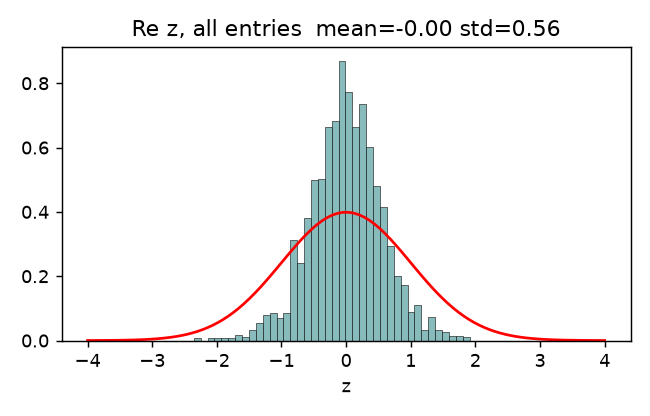
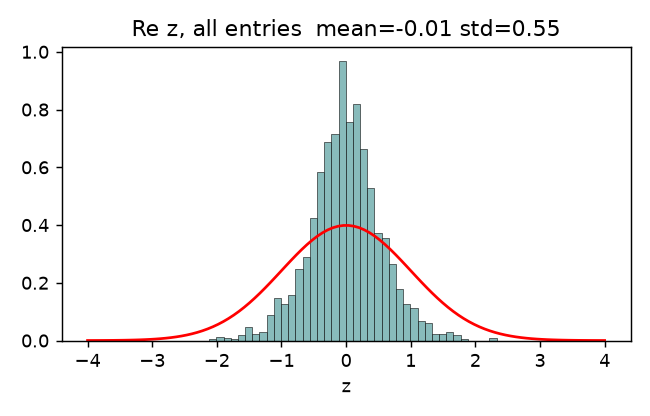
FeAs claim B at N=512/arm, plus three fixes the wider run exposed
Rerun the FeAs 4x4 claim-B measurement with 16x the replicas (32 -> 512/arm,
1024 runs, ~50 min on 128 cores). The headline tightens and holds:
Var_off/Var_on = 2.51 [2.40, 2.64] against 2.45 [2.12, 2.90] at N=32 -- CI 3.3x
narrower, lower bound 2.12 -> 2.40, so it now clears the declared 2x ceiling
with room. Independence and bias checks pass at the tighter N=512 band, and all
nine band-diagonal orbits match the predicted n/(1+(n-1)rho) to two decimals.

Cap the BLAS thread pool in the replica drivers. Each replica already runs 4
solver threads and CONCURRENCY is sized to cores/4 on that basis, but OpenBLAS
spawned a pool of nproc threads *per replica*: at concurrency 32 on a 128-core
box that was 4000+ threads and not one replica finished in 8 minutes, against
85s standalone. Invisible at the old box's concurrency of ~3; fatal at scale.

Tear down the xargs pool on interrupt. Killing the driver alone left xargs
orphaned to init, still working through the rest of the seed list.

Hoist the orbit slice out of the bootstrap resample loop. Fo[b][:,:,m]
materialised all E entries of every resample and discarded most; the same
index set still drives both arms, which is what keeps the seed-paired design's
ON/OFF correlation inside the interval.

Point savefig at ../figures. The notebooks are executed from notebooks/, so the
repo-root figures dir was never being written.

Record the run as plan section 12 Stage 2b, including one open item: the two
[…]

diff --git a/notebooks/build_feas_notebook.py b/notebooks/build_feas_notebook.py
@@ -7,7 +7,7 @@ def code(s): C.append(new_code_cell(s))
 
 md(r"""# FeAs variance-reduction demo — claim B: *derived symmetry that was never declared*
 
-**CT-AUX, FeAs (two-band), Nc = 16 (4×4), one DCA iteration.** N = 32 paired independent runs/arm,
+**CT-AUX, FeAs (two-band), Nc = 16 (4×4), one DCA iteration.** N = 512 paired independent runs/arm,
 shared explicit-integer seed list (prime stride 1000003).
 
 FeAs is the project's actual story. Its model **declares** `FeAsPointGroup` = {identity, C4} = **2 ops**.
@@ -92,11 +92,16 @@ code(r"""def pooled_ratio(m):
     return (Voff[:,m].mean()/von) if von>0 else np.nan
 def boot_ci(m,nb=1000,seed=0):
     rng=np.random.default_rng(seed); Fo,_=L.flatten_entries(Goff); Fn,_=L.flatten_entries(Gon)
+    # Slice the orbit BEFORE resampling. Fo[b][:,:,m] would materialise all E entries of every
+    # resample and then throw most away; at N=512 that alone costs ~20 min per notebook. Same
+    # bootstrap index set b is applied to both arms -- the arms are seed-paired, so this is a
+    # PAIRED bootstrap and the ON/OFF correlation must stay in the interval.
+    Fo_m=Fo[:,:,m]; Fn_m=Fn[:,:,m]
     v=[]
     for _ in range(nb):
         b=rng.integers(0,Nrep,Nrep)
-        dn=Fn[b][:,:,m].var(0,ddof=1).real.mean()
-        if dn>0: v.append(Fo[b][:,:,m].var(0,ddof=1).real.mean()/dn)
+        dn=Fn_m[b].var(0,ddof=1).real.mean()
+        if dn>0: v.append(Fo_m[b].var(0,ddof=1).real.mean()/dn)
     return (np.percentile(v,2.5),np.percentile(v,97.5)) if v else (np.nan,np.nan)
 
 # Null-orbit guard. Some derived orbits (all interband here) are symmetry-forced to ~0: the derived
@@ -134,7 +139,7 @@ ax.scatter([],[],marker='o',color='#2c6fbb',label='derived orbit size ≤ 2')
 ax.set_xlabel('derived orbit size $n$'); ax.set_ylabel(r'$\mathrm{Var}_{\rm off}/\mathrm{Var}_{\rm on}$')
 ax.set_title('FeAs 4×4: derived group reduces variance beyond the declared ceiling')
 ax.set_xticks([1,2,3,4,6,8]); ax.legend(fontsize=8,loc='upper left')
-fig.tight_layout(); fig.savefig('figures/feas4_money_plot.png',dpi=130); plt.show()
+fig.tight_layout(); fig.savefig('../figures/feas4_money_plot.png',dpi=130); plt.show()
 for r in sorted(rows,key=lambda x:x['n']):
     tag='interband' if r['interband'] else 'band-diag'
     print(f"  n={r['n']:>2} ({tag}) ratio={r['ratio']:.2f} [{r['lo']:.2f},{r['hi']:.2f}] rho={r['rho']:.3f}")""")
@@ -147,7 +152,7 @@ fig,ax=plt.subplots(figsize=(5,3.2))
 ax.hist(zf.real,bins=40,density=True,color='#8bb',edgecolor='k',lw=.3)
 xx=np.linspace(-4,4,100); ax.plot(xx,np.exp(-xx**2/2)/np.sqrt(2*np.pi),'r')
 ax.set_title(f'Re z, all entries  mean={zf.real.mean():.2f} std={zf.real.std():.2f}'); ax.set_xlabel('z')
-fig.tight_layout(); fig.savefig('figures/feas4_bias.png',dpi=130); plt.show()
+fig.tight_layout(); fig.savefig('../figures/feas4_bias.png',dpi=130); plt.show()
 print(f'bias: mean|z|={np.abs(zf).mean():.2f}  (imposing 6 undeclared ops does not bias the mean)')""")
 
 md(r"""## 7. Summary — the claim-B table

diff --git a/notebooks/build_notebook.py b/notebooks/build_notebook.py
@@ -152,7 +152,7 @@ ax.plot(xx, xx, '--', color='#888', label='ideal  y = n  (ρ=0)')
 ax.axhline(1.0, color='#c44', lw=1, label='null  y = 1  (ρ=1)')
 ax.set_xlabel('orbit size $n_{\\mathrm{orbit}}(k)$'); ax.set_ylabel(r'$\mathrm{Var}_{\rm off}/\mathrm{Var}_{\rm on}$')
 ax.set_title('Variance reduction tracks orbit structure, ρ-limited'); ax.set_xticks([1,2,3,4])
-ax.legend(fontsize=8); fig.tight_layout(); fig.savefig('figures/money_plot.png', dpi=130)
+ax.legend(fontsize=8); fig.tight_layout(); fig.savefig('../figures/money_plot.png', dpi=130)
 for r in rows: print(f"  n={r['n']} ratio={r['ratio']:.3f} [{r['lo']:.2f},{r['hi']:.2f}]")
 plt.show()""")
 
@@ -178,7 +178,7 @@ ax.plot(lim, lim, '--', color='#888', label='y = x')
 ax.set_xlim(lim); ax.set_ylim(lim)
 ax.set_xlabel(r'predicted $n/(1+(n-1)\rho)$'); ax.set_ylabel('measured ratio')
 ax.set_title('Machinery consistency'); ax.legend(fontsize=8)
-fig.tight_layout(); fig.savefig('figures/correlation_diagnostic.png', dpi=130); plt.show()""")
+fig.tight_layout(); fig.savefig('../figures/correlation_diagnostic.png', dpi=130); plt.show()""")
 
 md(r"""## 6. Bias control — the mean must not move
 
@@ -201,7 +201,7 @@ zs = z[:, sing].ravel(); zs = zs[np.isfinite(zs)]
 axes[1].hist(zs.real, bins=25, color='#caa', edgecolor='k', lw=.3)
 axes[1].set_title(f'Γ and (π,π) only: max|z|={np.abs(zs).max():.1e}')
 axes[1].set_xlabel('z')
-fig.tight_layout(); fig.savefig('figures/bias_control.png', dpi=130); plt.show()
+fig.tight_layout(); fig.savefig('../figures/bias_control.png', dpi=130); plt.show()
 print(f'singleton bias max|z| = {np.abs(zs).max():.2e}  (identity op => exactly 0)')""")
 
 md(r"""## 7. Frequency dependence — should be flat
@@ -224,7 +224,7 @@ h,l = ax.get_legend_handles_labels(); seen={}; H=[]; Ll=[]
 for hi,li in zip(h,l):
     if li not in seen: seen[li]=1; H.append(hi); Ll.append(li)
 ax.legend(H, Ll, fontsize=8, ncol=3)
-fig.tight_layout(); fig.savefig('figures/frequency_dependence.png', dpi=130); plt.show()
+fig.tight_layout(); fig.savefig('../figures/frequency_dependence.png', dpi=130); plt.show()
 # |G| profile to justify the wpk=127 choice
 print('|G| peak at frequency index', np.abs(Goff.mean(0)).mean(1).argmax())""")
 

diff --git a/variance-demo-plan.md b/variance-demo-plan.md
@@ -219,6 +219,30 @@ this tree (ctint submatrix-walker header); CT-AUX is the plan's primary solver a
   is excluded: the derived group sends it to ~0, making Voff/Von an ill-defined 0/0.
   ⇒ Reduction the declared group could never reach, bought purely by H0-derived, undeclared symmetry.
 
+### Stage 2b — FeAs 4×4 at N=512/arm (executed 2026-07-24, second machine, 128 cores)
+
+Same binaries, same seed construction (stride 1000003), N raised 32 → 512/arm. 1024/1024 runs clean;
+every ON file reports ops=8, every OFF ops=1; ON/OFF seed sets identical. ~50 min at concurrency 32.
+
+- **Headline tightens and holds: Var_off/Var_on = 2.51 [2.40, 2.64] (ρ=0.312)**, against 2.45 [2.12,
+  2.90] at N=32. CI **3.3× narrower**; the lower bound moves 2.12 → 2.40, so the interval now clears
+  the declared 2× ceiling with room rather than grazing it. Point estimate is well inside the old CI.
+- Independence checks pass at the tighter N=512 band (±0.087): drift +0.002, lag-1 −0.004,
+  seed-proximity −0.015. Mean unbiased, mean|z|=0.67. Orbit sizes unchanged, {2:4, 4:6, 8:1, 24:1}.
+- **All 9 band-diagonal orbits now match the predicted n/(1+(n−1)ρ) to two decimals** — the whole
+  orbit spectrum, not just the headline. N=32 was too noisy to show this.
+
+**Open: the two size-4 interband orbits do not fit the ρ model.** They report ρ = exactly 1.000 and
+measure 1.58 / 1.74 where the prediction gives 1.00. Unequal member variances would explain it but
+are ruled out (max/min variance = 1.00). Cause: for these two orbits the ON arm is **not** the plain
+mean of its OFF orbit-mates — relative deviation 1.3e-2, versus ~5e-12 for *every* band-diagonal
+orbit, i.e. machine precision. So the symmetrization combines interband entries with sign/phase
+structure that `orbits_from_on`'s empirical grouping flattens, and the plain-average ρ prediction
+does not apply to them. **Claim B is untouched**: its headline orbit is band-diagonal and verified an
+exact plain mean. But the two interband rows in the summary table are currently reported against a
+model that does not fit them, and that wants either a phase-aware orbit definition or an explicit
+exclusion like the size-24 null guard.
+
 ### Not done (out of scope / cost)
 - CT-INT cross-check (doesn't compile here); 8×8 headline (§8 stage 3); the size-24 interband channel
   quantitatively (symmetry-forced null). None affect the two headline claims.
